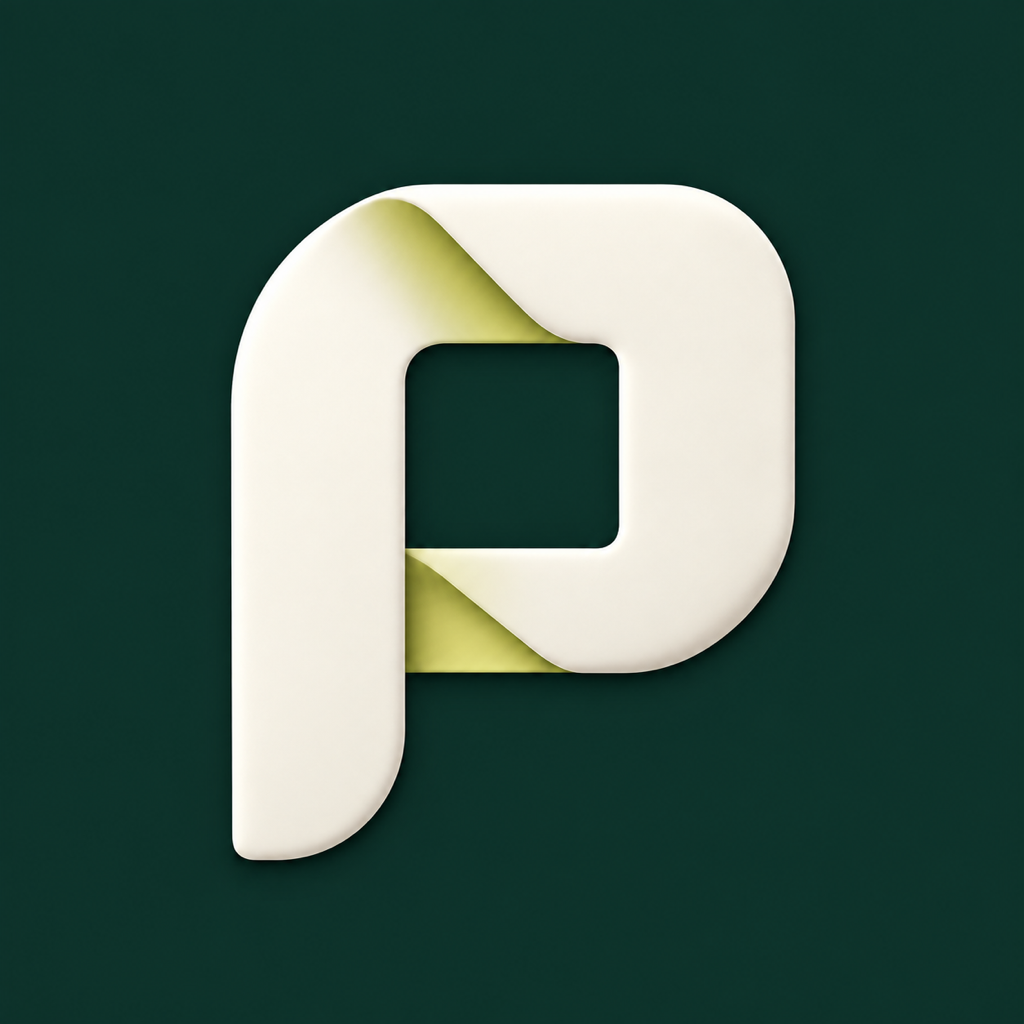
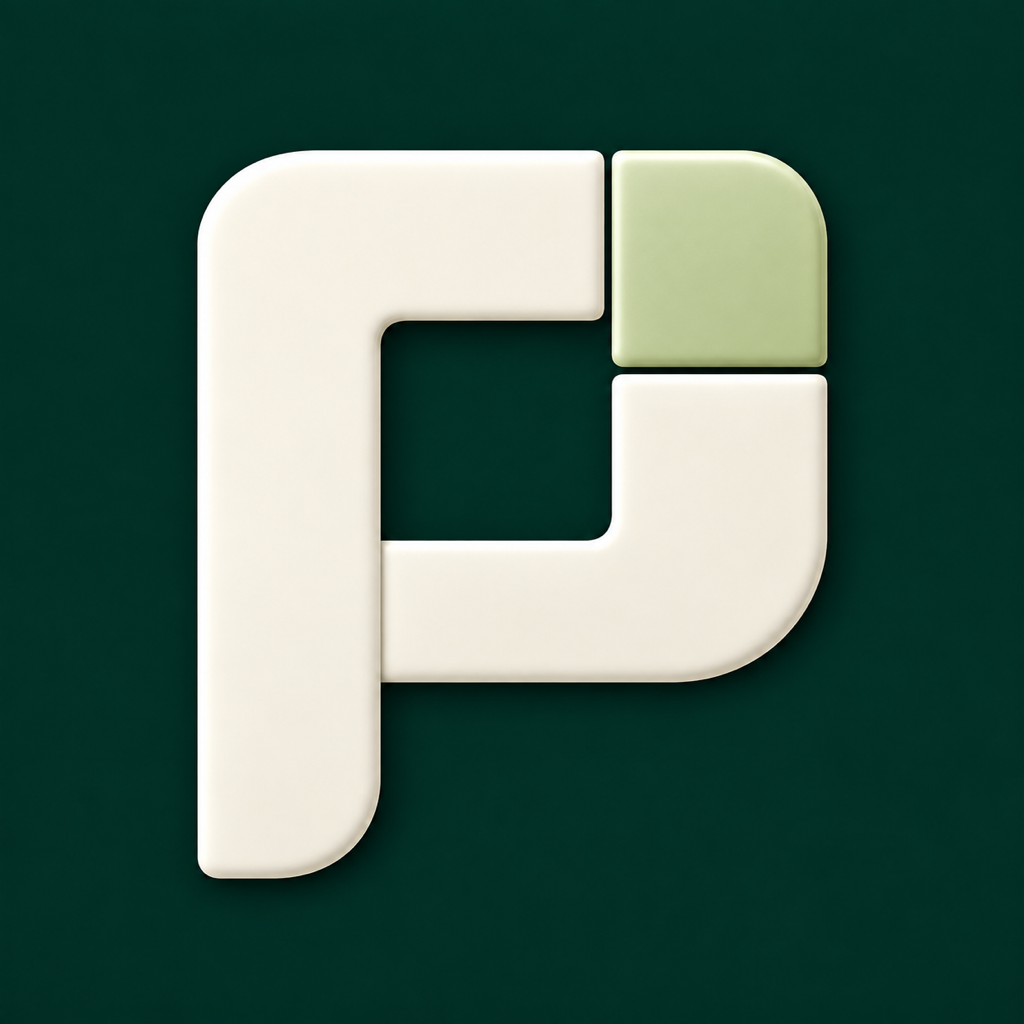
Present provisional Pixmere exact-fit identity and validation

Changed region(s): [[0.1875, 0.125, 0.8125, 0.875]]

diff --git a/QA.md b/QA.md
@@ -24,10 +24,18 @@ The post-correction conversion/result/share UI test also passed. Current README 
 
 ## Provisional Pixmere identity — September 27, 2026
 
-The user selected Pixmere provisionally while retaining FileFit engineering/repository names. Five distinct icon directions were developed; the selected folded P was evaluated at full size, 40 px and 60 px, and on a simulator Home Screen. The UI, paywall and screenshots now share evergreen, ivory and citron. No name clearance or reservation is claimed.
+The user selected Pixmere provisionally while retaining FileFit engineering/repository names. Five initial directions were followed by four focused refinements to remove paper/PDF associations. The recommended exact-fit P was reviewed at 1024, 60 and 40 px. The working UI and paywall use the same mark with emerald, ivory and sage. These are qualitative design judgments, not measured conversion results. No name clearance or reservation is claimed.
 
 All 19 unit tests passed after branding. All six simulator UI scenarios have passing evidence across separate runs, including the real localized StoreKit test price, conversion/share, preview, Photos import/save, Files export and targeted accessibility/lifecycle checks. The Photos permission test race was fixed; an infrastructure accessibility error passed on isolated retry. This is not a claim that every intermediate run was green. A fresh development-signed archive built and passed local signature verification; the first Pixmere archive installed and launched on the connected phone. The updated physical test run remains blocked by device lock. App Store Connect login is unavailable, so account configuration, real sandbox purchases, distribution validation and name reservation remain open.
 
 Two additional small-screen UI checks passed on iPhone SE (3rd generation), iOS 26.2, Dark Mode with the largest accessibility text size. The first screen and paywall were visually inspected. This is targeted accessibility evidence, not a complete spoken VoiceOver audit.
 
 The final retained Pixmere archive, including the paywall layout refinement, was also installed successfully on the connected iPhone on September 27. Physical test execution remains a separate outstanding gate.
+
+## Exact-fit refinement — September 27, 2026
+
+D replaces the earlier paper-fold P as the provisional working recommendation. The four focused simulator UI checks passed together after the asset update: accessibility/lifecycle, localized paywall, conversion/share and detail preview. Real captures and App Store compositions were regenerated and visually inspected. The installed simulator Home Screen confirms the new icon under the iOS mask. The prior development archive contains the older fold and is not evidence for this asset revision. No final icon approval or App Store release is claimed.
+
+The preceding source revision also passed [GitHub CI](https://github.com/sepidehdalir/filefit-ios/actions/runs/36303996013); this is distinct from the local asset-refinement validation.
+
+The exact-fit revision also passed two targeted small-screen Dark Mode checks at the largest accessibility text size; the first screen and paywall were visually inspected.

diff --git a/README.md b/README.md
@@ -1,6 +1,6 @@
 # Pixmere · iOS product engineering
 
-<img src="images/pixmere-icon.png" width="96" alt="Pixmere folded P icon">
+<img src="images/pixmere-icon.png" width="96" alt="Pixmere exact-fit P icon">
 
 **A photo that fits the limit.**
 
@@ -63,3 +63,7 @@ Not available yet. An App Store link will be added only after a real listing exi
 `portfolio-entry.json` is a portable entry for a future master iOS portfolio. Its release status is explicit and its App Store URL is null until launch. The public package contains product screenshots, technical discussion and non-sensitive implementation details; no signing material or production source.
 
 © 2026 sepidehdalir. Portfolio content and product artwork are not licensed for redistribution as an application.
+
+## Visual identity
+
+The provisional exact-fit P pairs a square image boundary with a single fitted pixel corner. Four focused refinements were evaluated at 1024, 60 and 40 px after an earlier fold proved too suggestive of paper. The working identity uses emerald, ivory and muted sage across the icon, SwiftUI screens and paywall. The recommendation is qualitative; App Store conversion has not yet been measured.
